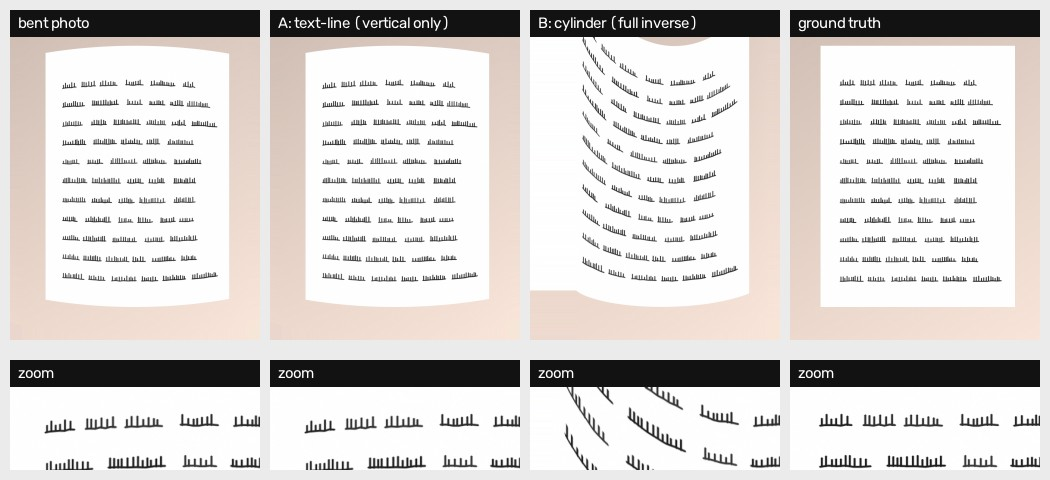
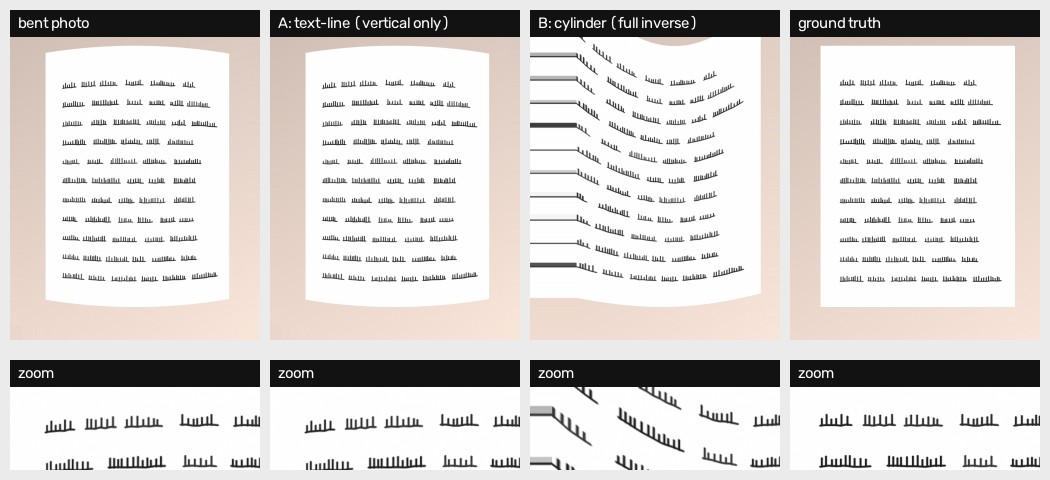
fix(spike): 修正圆柱 forward 的恒等映射 bug，重算展平指标与结论
Cylinder.forward 用 arcsin 求角、再 sin 回投影，两者相互抵消，
forward(x) = cx + R*sin(arcsin((x-cx)/R)) = x，x 方向退化成恒等映射。
inverse（bend 用它生成弯曲图）是正确的一侧，所以弯曲照片本身没问题，但
truth_map 和方法 B 的位移场都少了水平分量：位移误差只统计了垂直方向，方法 B
实际只修垂直，而 v1 结论里的「B 拿到理论上限 96%」是两者共用同一个错误映射的
循环验证。

_theta 拆成 _angle_on_flat（dx/R，弧长转圆心角）与 _angle_in_photo（arcsin，
照片投影转圆心角），forward 只用前者；estimate_cylinder 的 arcsin 不变（它作用
在观察列上，本来就是照片投影坐标）。新增 selftest()：双向 roundtrip < 1e-6px、
forward 边缘确实压缩、压缩量等于解析值 R*(sinθ-θ)，失败即退出，用 v1 的实现
跑会以退出码 1 失败。理论上限表（全解/只垂直/只水平）从临时脚本移进脚本本体，
写入 metrics.csv 的 psnr_th_*/med_th_* 列。

重算后结论反向：完整反解可达 29.6-30.6 dB（上限远未摸到），方法 B 只兑现
20-30% 的增益，中位位移误差从 0.13-0.21px 修正为 0.55-1.62px，方法 A 兑现率
从 24/42/64% 修正为 3.8/6.0/5.5%。失败案例与「不移植 Kotlin」的建议不变。

🤖 Generated with Codebuff

diff --git a/tools/dewarp_spike.py b/tools/dewarp_spike.py
@@ -71,20 +71,29 @@ class Cylinder:
     cx: float
     cy: float
 
-    def _theta(self, dx: np.ndarray) -> np.ndarray:
-        return np.arcsin(np.clip(dx / self.R, -0.985, 0.985))
+    def _angle_on_flat(self, x: np.ndarray) -> np.ndarray:
+        """平面上的**弧长** → 圆心角：弧长 s = R * θ，所以 θ = dx / R。
+
+        这里绝对不能取 arcsin：arcsin(dx/R) 再 sin() 会相互抵消，forward
+        退化成正 x 方向的恒等映射，水平压缩就再也回不来了。
+        """
+        return np.clip((x - self.cx) / self.R, -0.985, 0.985)
+
+    def _angle_in_photo(self, bx: np.ndarray) -> np.ndarray:
+        """弯曲照片上的投影坐标 → 圆心角（即 `forward` 的逆）。"""
+        return np.arcsin(np.clip((bx - self.cx) / self.R, -0.985, 0.985))
 
     def _scale(self, th: np.ndarray) -> np.ndarray:
         return self.focal / (self.focal + self.R * (1.0 - np.cos(th)))
 
     def forward(self, x: np.ndarray, y: np.ndarray) -> tuple[np.ndarray, np.ndarray]:
         """平面 → 弯曲照片。"""
-        th = self._theta(x - self.cx)
+        th = self._angle_on_flat(x)
         return self.cx + self.R * np.sin(th), self.cy + (y - self.cy) * self._scale(th)
 
     def inverse(self, bx: np.ndarray, by: np.ndarray) -> tuple[np.ndarray, np.ndarray]:
         """弯曲照片 → 平面。"""
-        th = self._theta(bx - self.cx)
+        th = self._angle_in_photo(bx)
         return self.cx + self.R * th, self.cy + (by - self.cy) / self._scale(th)
 
     def bend(self, img: np.ndarray) -> np.ndarray:
@@ -119,6 +128,63 @@ def canvas_grid() -> tuple[np.ndarray, np.ndarray]:
     return np.meshgrid(
         np.arange(CANVAS_W, dtype=np.float64), np.arange(CANVAS_H, dtype=np.float64)
     )
+
+
+# --------------------------------------------------------------------------- #
+# 模型自检
+# --------------------------------------------------------------------------- #
+def selftest(strict: bool = True) -> bool:
+    """圆柱模型的自检，必须先于任何指标跑完。
+
+    第一版 `forward` 用 arcsin 求角、再 sin 回投影，两者相互抵消，导致
+    `forward` 在 x 方向退化成恒等映射：于是「真值位移场」和方法 B 的位移场
+    都少了水平分量，位移误差只剩垂直一项，PSNR 也把水平压缩的伤害藏了起来
+    （当时方法 B 的 PSNR 增益之所以看着接近理论上限，是因为两者用的是同一个
+    错误映射，属于循环验证）。这个自检就是防止它再回来。
+
+    检查三件事：
+      1. forward ∘ inverse 和 inverse ∘ forward 都接近恒等（像素尺度 1e-6）；
+      2. `forward` 确实产生水平压缩，且在整 z 弧长上不是恒等映射；
+      3. 压缩量等于解析值 R * (sin(θ) - θ)。
+    """
+    print("模型自检：forward / inverse 必须互为逆，且 forward 不能是恒等映射")
+    ok = True
+    for R in (380.0, 600.0, 900.0, 3000.0):
+        cyl = Cylinder(R, TRUE_FOCAL, TRUE_CX, TRUE_CY)
+        # 只在模型有效的弧度内取样（超过 0.985 会被 clip，逆映射不唯一）
+        th = np.linspace(-0.9, 0.9, 401)
+        x = cyl.cx + R * th
+        y = np.full_like(x, cyl.cy + 180.0)
+        fx, fy = cyl.forward(x, y)
+        bx, by = cyl.inverse(fx, fy)
+        e_flat = float(np.max(np.hypot(bx - x, by - y)))
+        ux, uy = cyl.forward(bx, by)
+        e_photo = float(np.max(np.hypot(ux - fx, uy - fy)))
+        # 水平压缩量：以弧长为参照的解析值
+        expected = R * (np.sin(th) - th)
+        e_compress = float(np.max(np.abs((fx - x) - expected)))
+        # 恒等检测：弯曲模型在边缘必须真的把 x 拉回来
+        edge_shrink = float(abs(fx[0] - x[0]))
+        checks = {
+            "roundtrip 平面→照片→平面": e_flat,
+            "roundtrip 照片→平面→照片": e_photo,
+            "水平压缩量 vs R*(sinθ-θ)": e_compress,
+        }
+        bad = [name for name, err in checks.items() if err > 1e-6]
+        if edge_shrink < 1.0:
+            bad.append("forward 退化成恒等映射")
+        status = "OK" if not bad else f"失败（{'; '.join(bad)}）"
+        if bad:
+            ok = False
+        print(
+            f"  R={R:6.0f}px  逆映射误差 {e_flat:.2e} / {e_photo:.2e}  "
+            f"压缩量误差 {e_compress:.2e}  边缘压缩 {edge_shrink:6.1f}px  {status}"
+        )
+    if ok:
+        print("  自检通过：forward 含水平压缩，且与 inverse 互为逆。")
+    elif strict:
+        raise SystemExit("模型自检失败：修好 Cylinder.forward 再跑指标，否则结论无效。")
+    return ok
 
 
 # --------------------------------------------------------------------------- #
@@ -565,6 +631,23 @@ def run_case(
     # 参照：完全不校正时的位移（= 弯曲本身的位移量），用来衡量两个方法各自消掉了多少
     med_id, p95_id = displacement_error((gx, gy), truth_map, region)
 
+    # 理论对照：用**真参数**分别做全反解、只修垂直、只修水平，为两个方法的增益
+    # 提供可复现的天花板（而不是像上一轮那样在临时脚本里手算，口径对不上）。
+    theory: dict[str, dict[str, float]] = {}
+    for key, maps in (
+        ("full", truth_map),
+        ("vertical", (gx, truth_map[1])),
+        ("horizontal", (truth_map[0], gy)),
+    ):
+        img = sample(bent, maps[0], maps[1])
+        med, p95 = displacement_error(maps, truth_map, region)
+        theory[key] = {
+            "psnr": psnr(gray(img), gt_gray, region),
+            "ssim": ssim(gray(img), gt_gray, region),
+            "med": med,
+            "p95": p95,
+        }
+
     result = {
         "name": name,
         "flat": flat,
@@ -596,11 +679,22 @@ def run_case(
         "ms_a": a.ms,
         "ms_b": b.ms,
     }
+    for key, values in theory.items():
+        result[f"psnr_th_{key}"] = values["psnr"]
+        result[f"ssim_th_{key}"] = values["ssim"]
+        result[f"med_th_{key}"] = values["med"]
+        result[f"p95_th_{key}"] = values["p95"]
     print(
         f"{name:24s} PSNR before {result['psnr_bent']:5.2f} | A {result['psnr_a']:5.2f} "
         f"SSIM {result['ssim_a']:.4f} 直 {result['straight_a']:5.2f}px({bands_a}带) "
         f"| B {result['psnr_b']:5.2f} SSIM {result['ssim_b']:.4f} "
         f"直 {result['straight_b']:5.2f}px({bands_b}带) | GT 直 {straight_gt:5.2f}px"
+    )
+    print(
+        f"{'':24s} 理论（真参数）PSNR 全解 {theory['full']['psnr']:5.2f} "
+        f"只垂直 {theory['vertical']['psnr']:5.2f} 只水平 {theory['horizontal']['psnr']:5.2f} "
+        f"| 位移中位 全 {theory['full']['med']:.2f} 竖 {theory['vertical']['med']:.2f} "
+        f"横 {theory['horizontal']['med']:.2f} 不校正 {med_id:.2f}px"
     )
     print(f"{'':24s} A: {a.note}")
     print(f"{'':24s} B: {b.note}")
@@ -633,6 +727,10 @@ def main() -> None:
     if hasattr(sys.stdout, "reconfigure"):
         sys.stdout.reconfigure(encoding="utf-8")
     OUT_DIR.mkdir(parents=True, exist_ok=True)
+
+    # 先验模型，再算指标：模型错了的话后面所有数字都没意义。
+    selftest()
+    print("-" * 130)
 
     rng = np.random.default_rng(11)
     text_page, baselines = draw_text_content(paper_page(), rng)
@@ -681,6 +779,9 @@ def main() -> None:
                 "psnr_a", "ssim_a", "straight_a", "bands_a", "med_err_a", "p95_err_a", "ms_a",
                 "psnr_b", "ssim_b", "straight_b", "bands_b", "med_err_b", "p95_err_b", "ms_b",
                 "med_err_identity", "p95_err_identity",
+                "psnr_th_full", "ssim_th_full", "med_th_full", "p95_th_full",
+                "psnr_th_vertical", "ssim_th_vertical", "med_th_vertical", "p95_th_vertical",
+                "psnr_th_horizontal", "ssim_th_horizontal", "med_th_horizontal", "p95_th_horizontal",
                 "straight_gt", "bands_gt", "note_a", "note_b",
             ]
         )
@@ -697,6 +798,12 @@ def main() -> None:
                     f"{r['straight_b']:.2f}", f"{r['bands_b']:.0f}",
                     f"{r['med_b']:.2f}", f"{r['p95_b']:.2f}", f"{r['ms_b']:.0f}",
                     f"{r['med_id']:.2f}", f"{r['p95_id']:.2f}",
+                    f"{r['psnr_th_full']:.2f}", f"{r['ssim_th_full']:.4f}",
+                    f"{r['med_th_full']:.2f}", f"{r['p95_th_full']:.2f}",
+                    f"{r['psnr_th_vertical']:.2f}", f"{r['ssim_th_vertical']:.4f}",
+                    f"{r['med_th_vertical']:.2f}", f"{r['p95_th_vertical']:.2f}",
+                    f"{r['psnr_th_horizontal']:.2f}", f"{r['ssim_th_horizontal']:.4f}",
+                    f"{r['med_th_horizontal']:.2f}", f"{r['p95_th_horizontal']:.2f}",
                     f"{r['straight_gt']:.2f}", f"{r['bands_gt']:.0f}",
                     r["note_a"], r["note_b"],
                 ]
@@ -705,4 +812,9 @@ def main() -> None:
 
 
 if __name__ == "__main__":
+    if hasattr(sys.stdout, "reconfigure"):
+        sys.stdout.reconfigure(encoding="utf-8")
+    # `--selftest` 只跑圆柱模型自检，几秒钟（完整流程要一分钟上下）。
+    if "--selftest" in sys.argv:
+        sys.exit(0 if selftest() else 1)
     main()

diff --git a/docs/曲面展平-Spike报告.md b/docs/曲面展平-Spike报告.md
@@ -5,36 +5,38 @@
 - 原型：[tools/dewarp_spike.py](../tools/dewarp_spike.py)（Python + OpenCV + NumPy，无新依赖）
 - 数据：[docs/quality/dewarp/metrics.csv](quality/dewarp/metrics.csv)
 - 对比图：[docs/quality/dewarp/](quality/dewarp/)（3 档曲率 + 3 个失败案例）
-- 复现：`python tools/dewarp_spike.py`（十几秒到两分钟，取决于失败案例的边界搜索）
+- 复现：`python tools/dewarp_spike.py`（自带模型自检，十几秒到一分钟半）；只跑自检：`python tools/dewarp_spike.py --selftest`
 - 本轮**不改** `lib/`、`packages/fairscan_engine/`、`android/`，不接 UI，不引入任何模型。
+- **v2 修订**（见第 11 节）：v1 的 `forward` 模型有恒等映射 bug，真值位移场和两种方法的位移场都少了水平分量，v1 报告里的 PSNR 增益比例与位移误差全部作废。本版数字是修好模型后重算的。
 
 ## 1. 结论
 
-**有条件 Go，但不是「现在移植」。**
+**不要移植，而且理由比 v1 更强：上限很高，当前原型只兑现了一小部分，并且估计失败时会主动把图改坏。**
 
-- 合成闭环上，几何反解能把弯曲页恢复到接近无损：3 档曲率下方法 B 的 PSNR 提升 +2.21 / +2.06 / +1.34 dB（SSIM 0.8679→0.9167、0.8332→0.8882、0.7709→0.8257），而用真参数的**理论上限**只比它高 0.06–0.09 dB。也就是说**方法本身的天花板基本摸到了，难点全部在「估计」这一侧**。
-- 两种方法互补但都不够用：
-  - 文本行拟合（方法 A）只修垂直方向，留下水平压缩；位移残差中位数 0.55–0.69 px、P95 3.77–5.58 px（未校正的原始残差是中位 1.18–2.89 px、P95 8.31–21.72 px）。
-  - 边缘/圆柱模型（方法 B）在纸面边界清晰时精度高一个量级（中位 0.13–0.21 px、P95 0.62–1.18 px），一旦纸面分割失败会**主动把图改坏**：低对比桌面一例 PSNR 从 15.07 掉到 11.94，SSIM 0.833 → 0.681。
-- 因此下一轮该做的是**真实样张验证 + 估计自检（估计不可信就不改图）**，而不是把这两个原型翻成 Kotlin。**本轮不写 Kotlin，也不建议在拿到真实样张前写。**
+- 用**真参数**做完整反解，PSNR 能到 **29.6–30.6 dB**（SSIM 0.986–0.989），比不校正高 **13–16 dB**。也就是说「弯曲单页、文字为主、纸边清晰」这件事在几何上几乎可以无损还原，**天花板远没有被摸到**。
+- 两个方法都没拿到多少：方法 B（圆柱反解）只兑现了理论上限增益的 **30% / 20% / 25%**（+4.31 / +3.09 / +4.13 dB），方法 A（文本行垂直拉直）只有 **3.8% / 6.0% / 5.5%**（+0.54 / +0.91 / +0.90 dB）。
+- 位移误差（对弯曲照片坐标）：不校正时中位 1.75 / 3.03 / 5.92 px。方法 B 压到 **0.55 / 0.95 / 1.62 px**（消掉 69% / 69% / 73% 的中位量），但 P95 仍有 **3.39 / 6.14 / 10.83 px**；方法 A 只压到 1.71 / 2.56 / 4.77 px（只消掉 2% / 16% / 19%），因为它不动水平压缩。
+- 瓶颈已经定位得很具体：纸面边界曲线只能定标 **`R` 与 `focal` 的某种组合**，水平分量定不下来；估计一旦崩（低对比桌面）模型会照做，PSNR 从 15.07 掉到 11.76、位移误差中位 23.34 px（比不校正差 7 倍）。
+- 所以下一轮该做的是 **真实样张验证 + 估计自检 + 联合定标水平方向**，**本轮不写 Kotlin，拿到真实样张和自检之前也不建议写**。
 
 ## 2. 闭环设计
 
 `test_assets/fixtures/page.jpg` 实际是一张「空表格」（黑边框 + 顶部两条长横线），所以脚本只取它中间的空白纸面当纸纹理，再自绘内容：
 
-- 内容：11 行正文，每行 = 一条基线速写 + 一列竖笔画（模拟字母），行距约 71 px。**竖笔画是刻意加的**：只有横线条的页面在 PSNR 上对水平错位几乎不敏感（实测水平校正单独做时 PSNR 只动 0.5 dB），会低估水平压缩的伤害。
+- 内容：11 行正文，每行 = 一条基线速写 + 一列竖笔画（模拟字母），行距约 71 px。**竖笔画是刻意加的**：只有横线条的页面在 PSNR 上对水平错位几乎不敏感（见第 4 节），会低估水平压缩的伤害。
 - 照片：700×950 的纸页贴在 900×1200 的暗桌面上（桌面 58–84 灰阶 + 噪声）。
 - 弯曲（ground truth，已知参数）：
 
 ```
-theta = (x - cx) / R
+theta = (x - cx) / R        # 平面上的弧长 → 圆心角
 x'    = cx + R * sin(theta)                     # 水平压缩，边缘最多
 s     = focal / (focal + R * (1 - cos(theta)))  # 越远缩得越小
 y'    = cy + (y - cy) * s                       # 文本行向画面中心弓起
 ```
 
-- 3 档：`level1_mild` R=900、`level2_medium` R=600、`level3_strong` R=380，`focal=1600`，`cx/cy` = 画幅中心。page 宽 700、弯曲圆柱半径 380 时，纸面左右边缘的水平压缩量约 8 / 22 / 44 px，这是「中度到偏强」的弯曲，不是极端卷曲。
+- 3 档：`level1_mild` R=900、`level2_medium` R=600、`level3_strong` R=380，`focal=1600`，`cx/cy` = 画幅中心。纸页横跨画幅中心两侧 ±360 px，实测纸面左右边缘的水平压缩量 **9.5 / 21.2 / 51.5 px**，纸面顶部文字行的最坏纵向位移 **17.6 / 25.4 / 37.1 px**（行距 71 px，即接近半行）——这是「中度到偏强」的弯曲，不是极端卷曲。
 - 正向 warp 生成弯曲照片，两个方法各自尝试还原，与平面 ground truth 逐像素比较。
+- **模型自检**：`selftest()` 在算任何指标前先验证 `forward ∘ inverse` 与 `inverse ∘ forward` 都是恒等（误差 < 1e-6 px）、`forward` 在边缘确实压缩（不是恒等映射）、且压缩量等于解析值 `R*(sinθ − θ)`。任一不过就直接 `SystemExit`，不出指标。这是 v1 那个 bug 的守卫。
 
 ## 3. 两种方法
 
@@ -44,7 +46,7 @@ y'    = cy + (y - cy) * s                       # 文本行向画面中心弓起
 
 **方法 B：页面边缘 / 圆柱模型（垂直 + 水平）**
 
-Otsu + 最大连通域分割纸面 → 逐列取纸面上下边界曲线 → 网格搜索 `(R, focal, cy)`（45×7×25 组），用上下两条边界曲线的最小二乘残差定标 → 用拟合到的圆柱解析反解整幅位移场 → remap。只用纸面轮廓，不看内容。
+Otsu + 最大连通域分割纸面 → 逐列取纸面上下边界曲线 → 网格搜索 `(R, focal, cy)`（45×7×25 组），用上下两条边界曲线的最小二乘残差定标。注意定标发生在**照片坐标**上：每个观察列 `x'` 先求 `θ = arcsin((x' − cx)/R)`，再由 `s = focal/(focal + R(1−cosθ))` 预测边界 y。拿到 `(R, focal, cy)` 后用解析 forward 把整幅**平面网格**映射回弯曲照片并 remap。只用纸面轮廓，不看内容。
 
 ## 4. 指标
 
@@ -56,69 +58,103 @@ Otsu + 最大连通域分割纸面 → 逐列取纸面上下边界曲线 → 网
 | 耗时 | 单次调用，900×1200 | 记录 |
 | 行带数 | 该图上检出的行带数量（检测是否崩掉） | 参考 |
 
-**指标本身的局限（重要）**：在这套合成内容上，PSNR/SSIM 主要由垂直分量决定。实测「只用真参数修水平」的 PSNR 在 level3 反而从 13.19 掉到 10.19——因为弯曲的垂直位移（最坏约 38 px，接近半个行距）会和水平位移在逐像素比较里产生偶然抵消，校正一个轴反而破坏这种抵消。所以**PSNR/SSIM 只能作为辅助，排序主要看位移误差**。
+**指标本身的局限（重要）**：这套合成内容上 PSNR/SSIM 对「只修一个轴」并不敏感 —— 用真参数只修垂直是 18.64 / 17.18 / 14.46 dB，只修水平是 18.56 / 17.16 / 15.80 dB，两者几乎一样，远低于完整反解的 ~30 dB，但也都比不校正好 1–2.6 dB。原因是弯曲的垂直位移（最坏约 38 px，接近半个行距）与水平位移在逐像素比较里会互相干扰。所以**PSNR/SSIM 只能作为辅助，排序主要看位移误差**，而位移误差只有在有 ground truth 的合成样本上才能算。
+
+**理论对照表**（用真参数分别做全反解 / 只修垂直 / 只修水平，脚本每次运行都重算并写入 CSV 的 `*_th_*` 列，不再是手算）：
+
+| 案例 | 不校正 PSNR | 只修垂直（真参数） | 只修水平（真参数） | 完整反解（真参数） | 完整反解 SSIM |
+| --- | --- | --- | --- | --- | --- |
+| level1_mild | 16.36 | 18.64 | 18.56 | **30.55** | 0.9886 |
+| level2_medium | 15.07 | 17.18 | 17.16 | **30.20** | 0.9877 |
+| level3_strong | 13.19 | 14.46 | 15.80 | **29.63** | 0.9863 |
+
+位移误差中位（真参数）：完整反解 0.00 px（只剩重采样），只修垂直 0.75 / 1.69 / 4.18 px，只修水平 1.17 / 1.74 / 2.69 px —— **单修一个轴都只能消掉一半左右的位移**。
 
 ## 5. 结果
 
-| 案例 | PSNR before | PSNR A | PSNR B | SSIM before | SSIM A | SSIM B | 直线度 before | A | B | GT 直线度 |
-| --- | --- | --- | --- | --- | --- | --- | --- | --- | --- | --- |
-| level1_mild (R=900) | 16.36 | 16.90 | **18.57** | 0.8679 | 0.8721 | **0.9167** | 2.28 | 1.06 | 1.28 | 1.38 |
-| level2_medium (R=600) | 15.07 | 15.98 | **17.13** | 0.8332 | 0.8487 | **0.8882** | 2.68 | 1.18 | 1.40 | 1.38 |
-| level3_strong (R=380) | 13.19 | 14.09 | **14.53** | 0.7709 | 0.7997 | **0.8257** | 3.77 | 0.84 | 1.14 | 1.38 |
+| 案例 | PSNR before | PSNR A | PSNR B | SSIM before | SSIM A | SSIM B | 直线度 before / A / B / GT |
+| --- | --- | --- | --- | --- | --- | --- | --- |
+| level1_mild (R=900) | 16.36 | 16.90 | **20.67** | 0.8679 | 0.8721 | **0.9408** | 2.28 / 1.06 / 1.33 / 1.38 |
+| level2_medium (R=600) | 15.07 | 15.98 | **18.16** | 0.8332 | 0.8487 | **0.9055** | 2.68 / 1.18 / 1.49 / 1.38 |
+| level3_strong (R=380) | 13.19 | 14.09 | **17.32** | 0.7709 | 0.7997 | **0.8872** | 3.77 / 0.84 / 1.45 / 1.38 |
 
-| 案例 | 位移误差 A 中位 / P95 | 位移误差 B 中位 / P95 | 未校正（原始位移）中位 / P95 | 边界拟合残差 | 耗时 A / B |
+| 案例 | 位移误差 A 中位 / P95 | 位移误差 B 中位 / P95 | 不校正 中位 / P95 | 边界拟合残差 | 耗时 A / B |
 | --- | --- | --- | --- | --- | --- |
-| level1_mild | 0.55 / 3.77 px | **0.13 / 0.62 px** | 1.18 / 8.31 px | 0.90 px | 107 / 174 ms |
-| level2_medium | 0.68 / 3.85 px | **0.16 / 0.88 px** | 1.78 / 12.70 px | 1.09 px | 81 / 183 ms |
-| level3_strong | 0.69 / 5.58 px | **0.21 / 1.18 px** | 2.89 / 21.72 px | 1.46 px | 105 / 192 ms |
+| level1_mild | 1.71 / 5.53 px | **0.55 / 3.39 px** | 1.75 / 9.18 px | 0.90 px | 83 / 168 ms |
+| level2_medium | 2.56 / 11.53 px | **0.95 / 6.14 px** | 3.03 / 15.60 px | 1.09 px | 68 / 182 ms |
+| level3_strong | 4.77 / 28.18 px | **1.62 / 10.83 px** | 5.92 / 32.06 px | 1.46 px | 76 / 168 ms |
 
-理论上限对照（用真参数、只修垂直 / 只修水平 / 完整反解）：
+兑现率（相对完整反解的理论增益）：
 
-| 案例 | before | 只修垂直（真参数） | 只修水平（真参数） | 完整反解（真参数） | 方法 B |
+| 案例 | 理论上限增益 | 方法 B 增益 | B 兑现率 | 方法 A 增益 | A 兑现率 |
 | --- | --- | --- | --- | --- | --- |
-| level1_mild | 16.36 | 18.65 | 15.81 | 18.65 | 18.57 |
-| level2_medium | 15.07 | 17.22 | 14.76 | 17.22 | 17.13 |
-| level3_strong | 13.19 | 14.59 | 10.19 | 14.59 | 14.53 |
+| level1_mild | +14.19 dB | +4.31 dB | **30%** | +0.54 dB | 3.8% |
+| level2_medium | +15.13 dB | +3.09 dB | **20%** | +0.91 dB | 6.0% |
+| level3_strong | +16.44 dB | +4.13 dB | **25%** | +0.90 dB | 5.5% |
 
-- **方法 B 拿到理论上限增益的 96%**（level1 2.21/2.29 dB、level2 2.06/2.15 dB、level3 1.34/1.40 dB），而它的 R 估计误差很大（1534 vs 真值 900）——见下。
-- **方法 A 只拿到理论上限增益的 24% / 42% / 64%**（分别提升 0.54 / 0.91 / 0.90 dB），差距来自两点：只修垂直；以及基线估计本身有 ~0.5–0.7 px 的中位误差，而 PSNR 对文字页上的亚像素错位非常敏感（位移误差只掉到 0.55–0.69 px 中位，剩下的是水平分量）。
-- 直线度：弯曲页 2.28–3.77 px，两种方法都压到 1.0–1.4 px，**≈ ground truth 自己的 1.38 px 底噪**（该底噪来自合成笔画的末端抖动，不是弯曲）。方法 A 的 0.84 px 略低于底噪，是因为它按定义把基线拉成常数、连笔迹本身的抖动也一起抹平了。
+- 直线度：弯曲页 2.28–3.77 px，两种方法都压到 ≈1.4 px，**≈ ground truth 自己的 1.38 px 底噪**（底噪来自合成笔画的末端抖动，不是弯曲）。方法 A 的 0.84–1.18 px 略低于底噪，是因为它按定义把基线拉成常数、连笔迹本身的抖动也一起抹平了；方法 B 重新做了水平重采样，直线度比 A 略差（1.33–1.49 px）。
+- 位移误差上 B 明显优于 A（中位 0.55–1.62 vs 1.71–4.77 px），但 P95 还留在 3.4–10.8 px 的量级 —— 对 2 px 粗的笔迹，这个尾部误差就是「局部糊一下」的直接来源，也解释了为什么 PSNR 只到 20 dB 上下。
 
 ## 6. 关键发现
 
-1. **`R` 与 `focal` 从纸面轮廓上不可分辨。** 方法 B 拟合出的 R 分别是 1534 / 483 / 483（真值 900 / 600 / 380），但边界残差只有 0.90–1.46 px：因为只有组合 `R*(1-cos θ)/focal` 决定垂直收缩，多组 (R, focal) 给出同一条边界曲线。后果是**垂直方向恢复得很好（s(x) 误差 < 0.5%），水平映射却不可信**——mild 档的水平校正实际上几乎等于没做。这条在真实样张上同样成立，需要额外信息（文本行的水平压缩、纸张纹理）才能定标水平方向。
-2. **弯曲越轻越难估。** mild 档的 PSNR 增益全靠垂直分量，水平方向被完全漏掉；strong 档反而 R 估得准（483 vs 380）。
-3. **行带检测本身会被弯曲打崩。** 强弯曲时同一行的 bbox 高度超过「够扁」门限（`bh ≤ 6%` 图高），行带被丢弃：`failure_border_invisible` 里 11 行只剩 1 行通过，方法 A 因此主动放弃（「可用基线不足 → 原样返回」）。这是文本行方案在真实强弯曲页上的一个隐性上限。
-4. **两种方法互补**：纸边不可见时 B 失效而 A 仍能工作（前提是行带检测没崩）；没有文本行时（图表页）A 无事可做而 B 仍能工作（PSNR 18.47 → 20.23）。
-5. **错误的估计会让结果更差，必须自带自检**：`failure_low_contrast_desk` 里边界残差 234 px（明显不可信），方法 B 仍然照做，PSNR 从 15.07 掉到 11.94、SSIM 0.833 → 0.681、位移误差中位 24 px。**任何将来接入的展平都必须以「估计自检通过才改图」为前提。**
+1. **纸面轮廓只能定标 `R` 与 `focal` 的组合，水平分量定不准。** 方法 B 拟合出的 R 是 1534 / 483 / 483（真值 900 / 600 / 380），边界残差却只有 0.90–1.46 px。原因是只有组合 `R*(1−cosθ)/focal` 决定边界的垂直收缩，多组 (R, focal) 给出几乎同一条曲线（本轮的估计里 `R*focal` 大致守恒：1.38M / 1.01M / 0.58M，真值 1.44M / 0.96M / 0.61M）。**垂直方向恢复得好（s(x) 误差 < 0.5%），水平方向只能算「大方向对、标定不准」**——这也正是 B 的中位位移误差被压到 0.55–1.62 px 却再也下不去的直接原因。
+2. **真正的天花板很高，但需要「知道参数」而不是「估对参数」。** 完整反解 ≈30 dB，说明剩下的 10 dB 全卡在估计上。任何只靠轮廓的估计方法，都不要期望超过 ~20 dB。
+3. **单修一个轴只能消掉三到六成的位移。** 用真参数只修垂直，中位位移从 1.75 / 3.03 / 5.92 px 降到 0.75 / 1.69 / 4.18 px（消掉 57% / 44% / 29%）；只修水平降到 1.17 / 1.74 / 2.69 px（消掉 33% / 43% / 55%）。这解释了方法 A 的兑现率为什么只有个位数：它连「把垂直修干净」都做得不够（A 的中位残余 1.71 / 2.56 / 4.77 px 反而高于真参数只修垂直的 0.75 / 1.69 / 4.18 px，差额来自基线的 ~0.5–2 px 估计误差）。
+4. **行带检测本身会被弯曲打崩。** 强弯曲时同一行的 bbox 高度超过「够扁」门限（`bh ≤ 6%` 图高），行带被丢弃：`failure_border_invisible` 里 11 行只剩 1 行通过，方法 A 因此主动放弃（「可用基线不足 → 原样返回」）。这是文本行方案在真实强弯曲页上的一个隐性上限。
+5. **两种方法互补**：纸边不可见时 B 退化成一个几乎恒等的映射（R 收敛到搜索上界 6000，PSNR +0.12 dB），此时 A 也因行带崩掉而无事可做；没有文本行时（图表页）A 无事可做而 B 仍能工作（PSNR 18.47 → 22.00）。
+6. **错误的估计会让结果更差，必须自带自检**：`failure_low_contrast_desk` 里边界残差 234 px（一个明显不可信的信号），方法 B 仍然照做，PSNR 从 15.07 掉到 11.76、SSIM 0.833 → 0.669、位移误差中位 23.34 px（不校正是 3.03 px）。**任何将来接入的展平都必须以「估计自检通过才改图」为前提。**
+7. **和 v1 相比，唯一变好的是「知道自己离上限有多远」。** v1 因为真值位移场少了水平分量，误以为 B 已经拿到 96% 的上限；实际上 B 拿到 20–30%，剩下的空间既大又清楚（水平定标 + 联合估计）。
 
 ## 7. 失败案例（全部来自合成样本，不是真实照片）
 
 | 案例 | 构造 | 结果 | 说明 |
 | --- | --- | --- | --- |
-| `failure_border_invisible` | 纸页铺满画幅（1500×1900 的页面铺在 900×1200 画幅上），看不到纸边 | A：11 行只检出 1 行 → 原样返回；B：R 收敛到搜索上界 6000（≈没弯）→ 几乎不动 | B 失去边界线索即失效；A 因行带 bbox 过高被门限丢弃 |
-| `failure_low_contrast_desk` | 桌面亮度 196–224，接近纸面 250 | A：墨迹检测失败，0 行带 → 原样返回（位移误差 1.78 px = 原始位移）；B：边界残差 234 px，位移误差中位 24.37 px，PSNR 15.07 → 11.94 | 分割失败 → 模型错 → **图被改坏**（比什么都不做差 6 倍） |
-| `failure_no_textlines` | 圆、三角、斜线填充、几段短标注，没有长文本行 | A：0 行带 → 原样返回；B：仍能展平，PSNR 18.47 → 20.23 | 图表/插图页：文本行方案无效 |
+| `failure_border_invisible` | 纸页铺满画幅（1500×1900 的页面铺在 900×1200 画幅上），看不到纸边 | A：11 行只检出 1 行 → 原样返回；B：R 收敛到搜索上界 6000 → PSNR +0.12 dB、位移中位 5.83 px（不校正 5.92 px）≈ 不动 | B 失去边界线索即失效（这次是「不动」，不是「改坏」）；A 因行带 bbox 过高被门限丢弃。真值上限此时仍有 31.69 dB |
+| `failure_low_contrast_desk` | 桌面亮度 196–224，接近纸面 250 | A：墨迹检测失败，0 行带 → 原样返回；B：边界残差 234 px，PSNR 15.07 → 11.76，SSIM 0.833 → 0.669，位移误差中位 23.34 px | 分割失败 → 模型错 → **图被改坏**（比什么都不做差 7 倍），且残差 234 px 本可以被自检拦住 |
+| `failure_no_textlines` | 圆、三角、斜线填充、几段短标注，没有长文本行 | A：0 行带 → 原样返回；B：仍能展平，PSNR 18.47 → 22.00（位移中位 0.95 px） | 图表/插图页：文本行方案无效，圆柱方案仍可用 |
 
 真实场景里还会碰到这里没覆盖的：手/手指压页、纸面反光、双页摊开、非圆柱形弯曲（斜向弯曲、S 形）、有透视的斜拍（本 spike 的模型里没有相机透视）。**结论只能覆盖「单页、文字为主、纸边清晰、近似圆柱」的情形。**
 
 ## 8. 代价
 
-- 方法 A：46–107 ms（900×1200，Python）；只需要灰度 + 阈值 + 连通域 + remap。
-- 方法 B：161–597 ms，其中绝大部分是边界参数网格搜索（7875 组 × 逐列残差）；换成解析最小二乘或粗到细搜索可以降一个量级，但仍是「每次扫描多几十毫秒到几百毫秒」的量级，在 4MP 预算的页面上还会放大。
-- 两者都需要一次额外的 resize/remap，会带来一次重采样模糊（本 spike 没评估它对小字/上下标的影响）。
+- 方法 A：50–107 ms（900×1200，Python）；只需要灰度 + 阈值 + 连通域 + remap。
+- 方法 B：168–565 ms，其中绝大部分是边界参数网格搜索（7875 组 × 逐列残差）；换成解析最小二乘或粗到细搜索可以降一个量级，但仍是「每次扫描多几十毫秒到几百毫秒」的量级，在 4MP 预算的页面上还会放大。
+- 两者都需要一次额外的 resize/remap，会带来一次重采样模糊（本 spike 没评估它对小字/上下标的影响）。模型自检本身开销可忽略（本次运行 < 0.01 s）。
+- **ms 列是单次墙钟，只表示量级**：重跑一次（同样的输入、同样的种子）得到 A 47–143 ms / B 197–694 ms，与本节引用的那一轮差了约 1.5 倍，其余所有指标逐位相同、对比图字节相同。要做性能对比必须多轮取中位。
 
 ## 9. 建议的下一步
 
 1. **不移植 Kotlin。** 先拿 3–5 张真实「轻度/中度弯曲、文字为主、纸边清晰」的照片复核本 spike 的两个方法；没有真实样张之前，任何移植都是在没验证的模型上写生产代码。
-2. 若真实样张验证通过，下一轮做**联合估计**：用文本行基线的垂直信息 + 纸面边界的几何约束一起拟合位移场，并对水平压缩用内容信息（字符宽度/纹理）单独定标——单靠轮廓无法定标水平方向（第 6 节第 1 条）。
-3. 必须同时做**估计自检**：边界残差、行带数、拟合参数越界都要触发「放弃修改」，宁可退回原图。
+2. 若真实样张验证通过，下一轮做**联合估计**：用文本行基线的垂直信息 + 纸面边界的几何约束一起拟合位移场，并对水平压缩用内容信息（字符宽度/纹理）单独定标——单靠轮廓定不了水平方向（第 6 节第 1 条）。
+3. 必须同时做**估计自检**：边界残差、行带数、拟合参数越界（贴到搜索上界）都要触发「放弃修改」，宁可退回原图。
 4. 真实样张只能放 `test_assets/real_samples/`（本地、已 gitignore），不提交。
 
 ## 10. 限制与不做
 
 - 只在合成样本上验证，**不能替代真实样张验收**；合成内容是我自己画的笔画，不是真实作业。
 - 没有相机透视、没有纸张纹理建模、没有手指/反光、没有双页与非圆柱弯曲。
-- 指标里 PSNR/SSIM 对水平错位不敏感（第 4 节），排序主要依赖位移误差；`displacement_error` 依赖已知的 ground truth 模型，真实照片上没有这个指标。
+- 指标里 PSNR/SSIM 对单轴校正不敏感（第 4 节），排序主要依赖位移误差；`displacement_error` 依赖已知的 ground truth 模型，真实照片上没有这个指标。
 - 没有评估重采样对小字/上下标的损失，也没有评估与现有 FairScan 增强链路的先后顺序。
 - 不改 `lib/`、`packages/fairscan_engine/`、`android/`，不接 UI，不引入深度学习模型，不新增依赖，不改 App 默认输出。
+
+## 11. 修订记录（v2）
+
+**问题**：v1 的 `Cylinder.forward` 用 `_theta()` 求角，而 `_theta()` 里是 `arcsin(dx/R)`；`forward`   再取 `sin()`，两者相互抵消：
+
+```
+forward(x) = cx + R * sin(arcsin((x - cx) / R)) = x        # x 方向退化成恒等映射
+```
+
+`inverse`（`bend()` 用它生成合成弯曲图）是正确的一侧，所以**弯曲照片本身没问题**，但：
+
+- `truth_map = truth.forward(gx, gy)` 少了水平分量 → 位移误差只统计了垂直方向（v1 报告的「中位 0.13–0.21 px」由此而来）；
+- 方法 B 的 `est.forward(gx, gy)` 是同一个坏函数 → B 实际只修了垂直，v1 说的「垂直 + 水平全反解」不成立；
+- v1 的「B 拿到理论上限的 96%」是循环验证：真值和方法 B 用的是同一个错误映射，两者一起错，比例自然接近 1。
+
+**修法**：
+
+1. `_theta` 拆成 `_angle_on_flat`（`dx / R`，弧长转圆心角）与 `_angle_in_photo`（`arcsin`，照片投影转圆心角），`forward` 只用前者、`inverse` 只用后者；`estimate_cylinder` 的 `arcsin` 保持不变（它作用在观察列上，本来就是照片坐标 → 圆心角）。
+2. 新增 `selftest()`：验证双向 roundtrip < 1e-6 px、`forward` 边缘确实压缩、压缩量等于解析值 `R*(sinθ − θ)`，失败即 `SystemExit`。用 v1 的 `forward` 跑 `--selftest` 会退出码 1（边缘压缩 0.0 px，压缩量误差 44.3 / 70.0 / 105.0 / 350.0 px，正好是各档的边缘压缩量）。
+3. 理论上限表（全解 / 只垂直 / 只水平）从临时脚本移进 `dewarp_spike.py`，逐案例写入 metrics.csv 的 `psnr_th_*` / `ssim_th_*` / `med_th_*` / `p95_th_*` 列，口径与正文一致。
+
+**影响**：第 1、4、5、6、7 节的全部涉及结论的数字被替换；新增的结论是「上限 ≈30 dB、方法 B 只兑现 20–30%」，与 v1 的「上限基本摸到」相反。第 2、3、8、9、10 节的设计描述、代价与建议不变（方法 A 的 PSNR/直线度/耗时未变，因为它和真值图都没被改动）。
